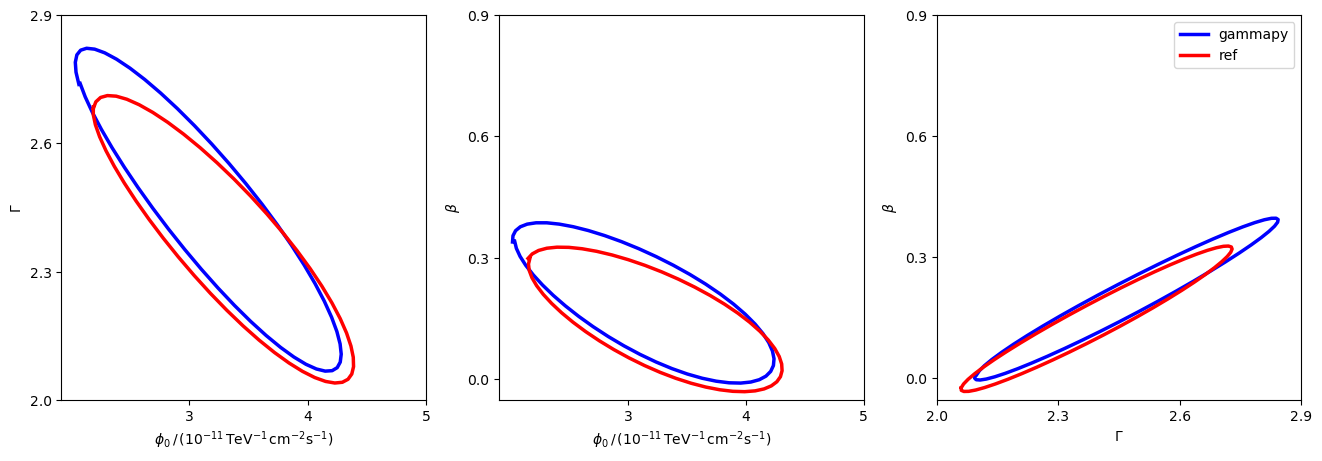
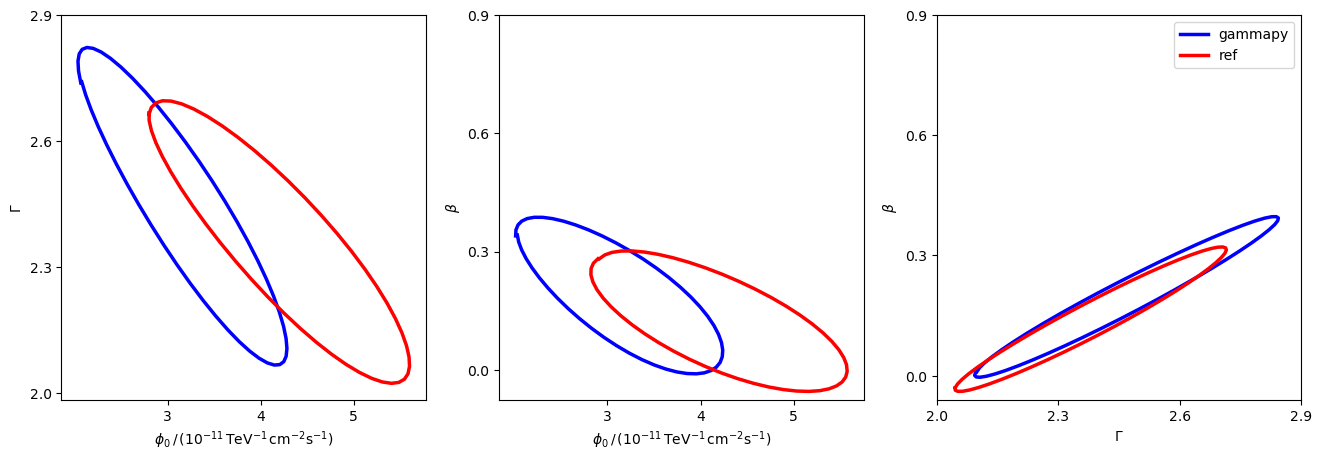
Update fermi results

diff --git a/validation/joint-crab/results/fit_fermi.rst b/validation/joint-crab/results/fit_fermi.rst
@@ -1,8 +1,8 @@
-========= ========= ========= ============== === === ======
-     name     value     error           unit min max frozen
-========= ========= ========= ============== === === ======
-amplitude 3.042e-11 7.778e-12 cm-2 s-1 TeV-1 nan nan  False
-reference 1.000e+00 0.000e+00            TeV nan nan   True
-    alpha 2.451e+00 2.487e-01                nan nan  False
-     beta 8.184e-02 5.846e-02                nan nan  False
-========= ========= ========= ============== === === ======
+========= ========= ========= ============== ========== ========= ======
+     name     value     error           unit        min       max frozen
+========= ========= ========= ============== ========== ========= ======
+amplitude 3.035e-11 2.429e-12 cm-2 s-1 TeV-1        nan       nan  False
+reference 1.000e+00 0.000e+00            TeV        nan       nan   True
+    alpha 2.454e+00 3.280e-02                       nan       nan  False
+     beta 8.238e-02 1.736e-02                -5.000e-01 1.000e+00  False
+========= ========= ========= ============== ========== ========= ======

diff --git a/validation/joint-crab/results/fermi_comparison_table.md b/validation/joint-crab/results/fermi_comparison_table.md
@@ -14,8 +14,8 @@
    </thead>
    <tr>
     <td>amplitude</td>
-    <td>3.160e-11 ± 7.870e-12</td>
-    <td>3.042e-11 ± 7.778e-12</td>
+    <td>4.044e-11 ± 1.009e-11</td>
+    <td>3.035e-11 ± 2.429e-12</td>
    </tr>
    <tr>
     <td>reference</td>
@@ -24,13 +24,13 @@
    </tr>
    <tr>
     <td>alpha</td>
-    <td>2.388e+00 ± 2.386e-01</td>
-    <td>2.451e+00 ± 2.487e-01</td>
+    <td>2.372e+00 ± 2.389e-01</td>
+    <td>2.454e+00 ± 3.280e-02</td>
    </tr>
    <tr>
     <td>beta</td>
-    <td>1.445e-01 ± 1.273e-01</td>
-    <td>1.884e-01 ± 1.346e-01</td>
+    <td>1.365e-01 ± 1.274e-01</td>
+    <td>1.897e-01 ± 3.997e-02</td>
    </tr>
   </table>
  </body>

diff --git a/validation/joint-crab/results/fermi_summary.md b/validation/joint-crab/results/fermi_summary.md
@@ -14,8 +14,8 @@
    </thead>
    <tr>
     <td>amplitude</td>
-    <td>3.160e-11 ± 7.870e-12</td>
-    <td>3.042e-11 ± 7.778e-12</td>
+    <td>4.044e-11 ± 1.009e-11</td>
+    <td>3.035e-11 ± 2.429e-12</td>
    </tr>
    <tr>
     <td>reference</td>
@@ -24,13 +24,13 @@
    </tr>
    <tr>
     <td>alpha</td>
-    <td>2.388e+00 ± 2.386e-01</td>
-    <td>2.451e+00 ± 2.487e-01</td>
+    <td>2.372e+00 ± 2.389e-01</td>
+    <td>2.454e+00 ± 3.280e-02</td>
    </tr>
    <tr>
     <td>beta</td>
-    <td>1.445e-01 ± 1.273e-01</td>
-    <td>1.884e-01 ± 1.346e-01</td>
+    <td>1.365e-01 ± 1.274e-01</td>
+    <td>1.897e-01 ± 3.997e-02</td>
    </tr>
   </table>
  </body>
